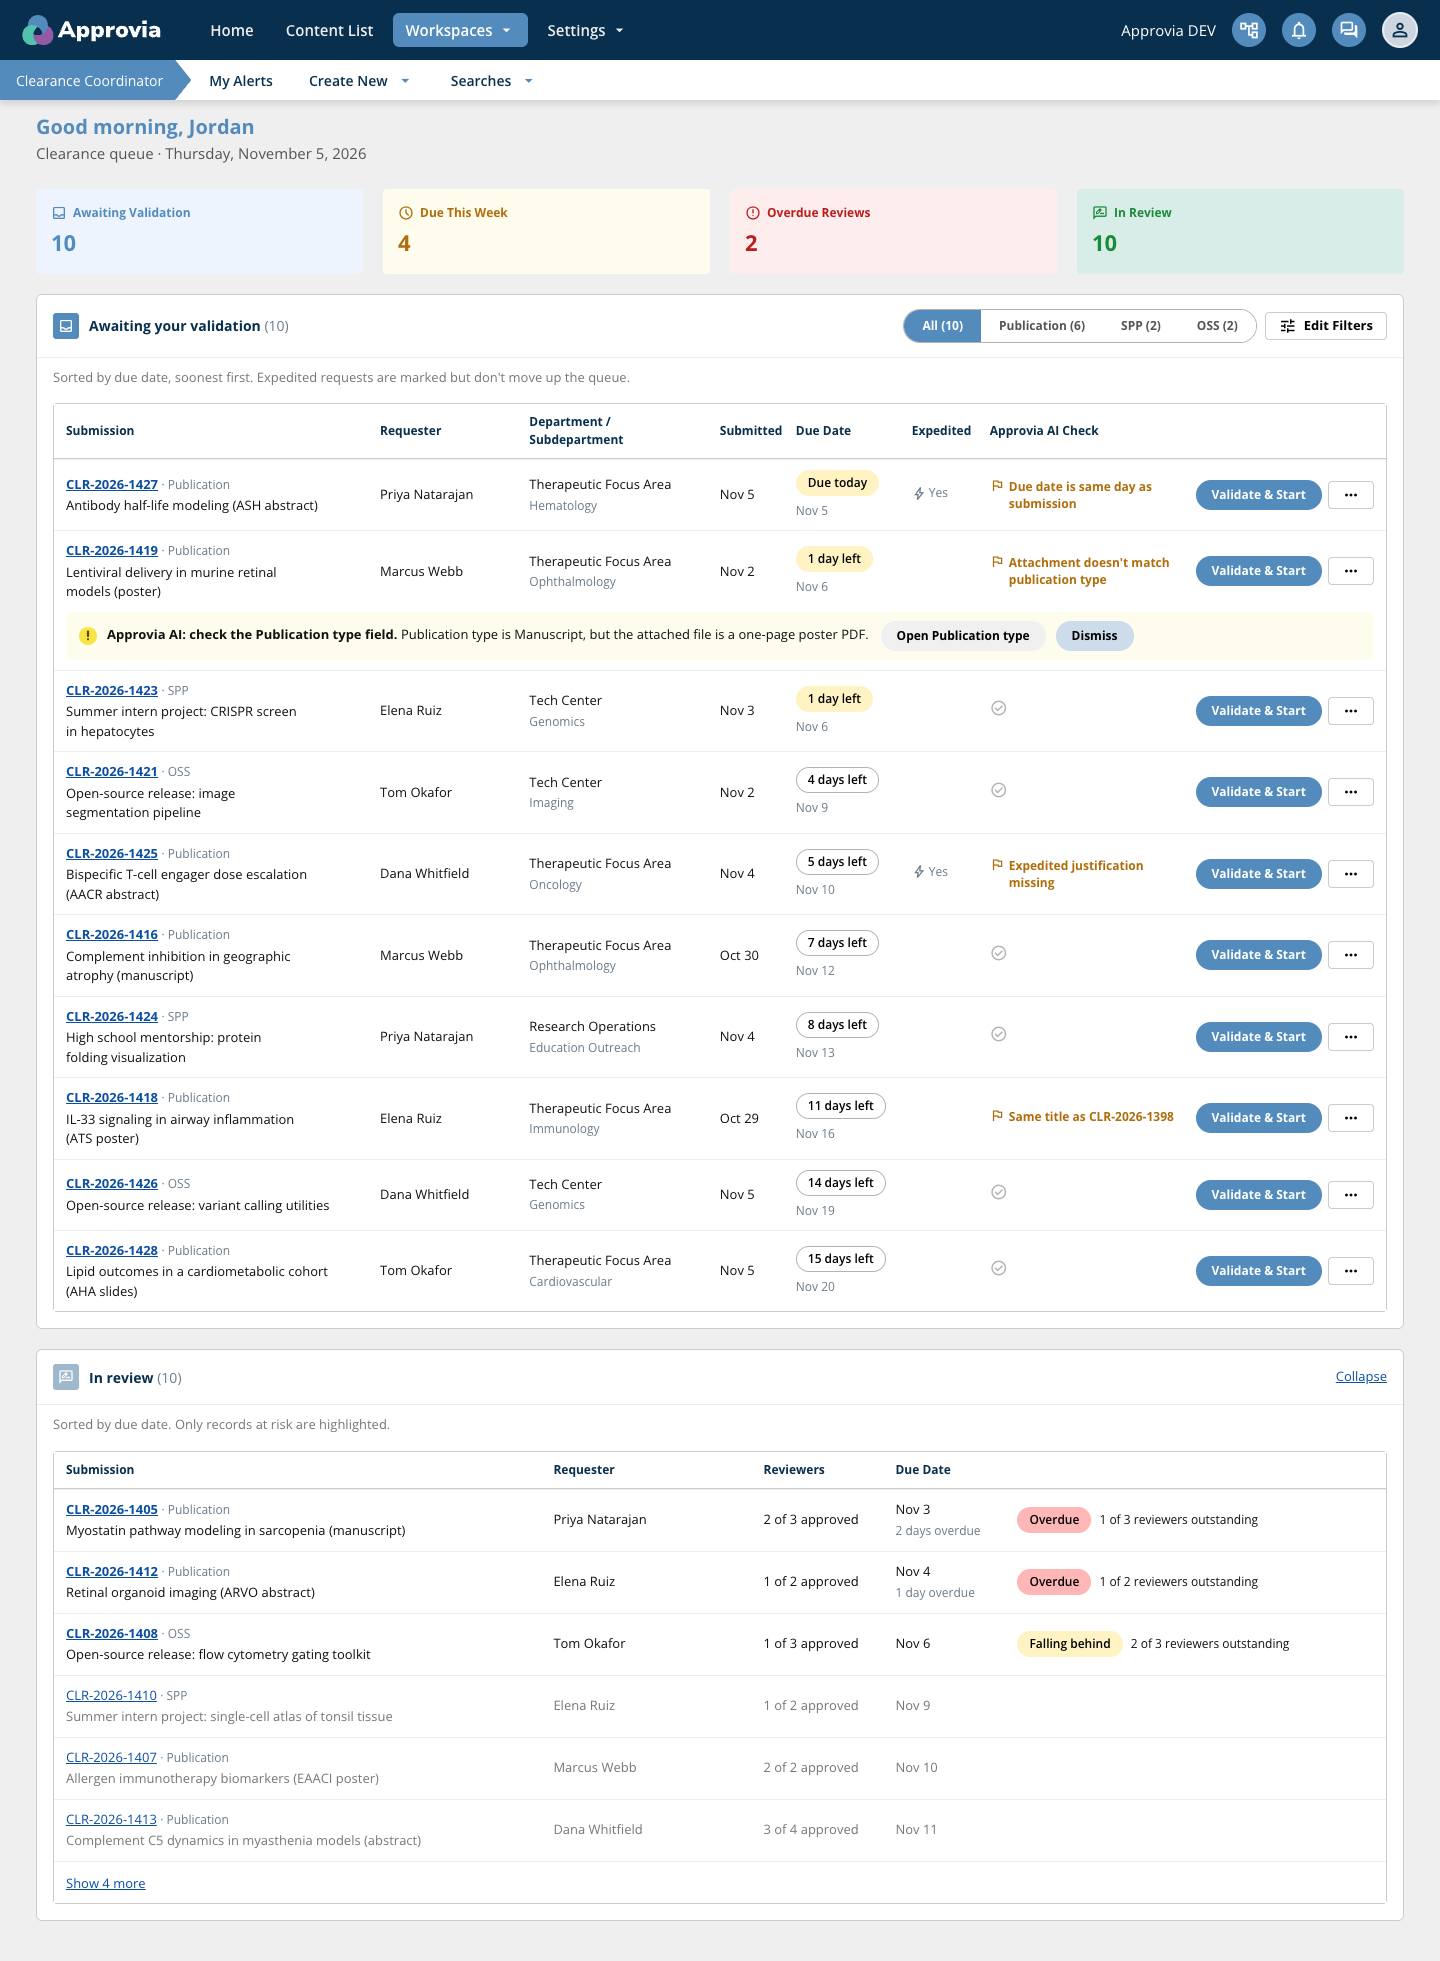
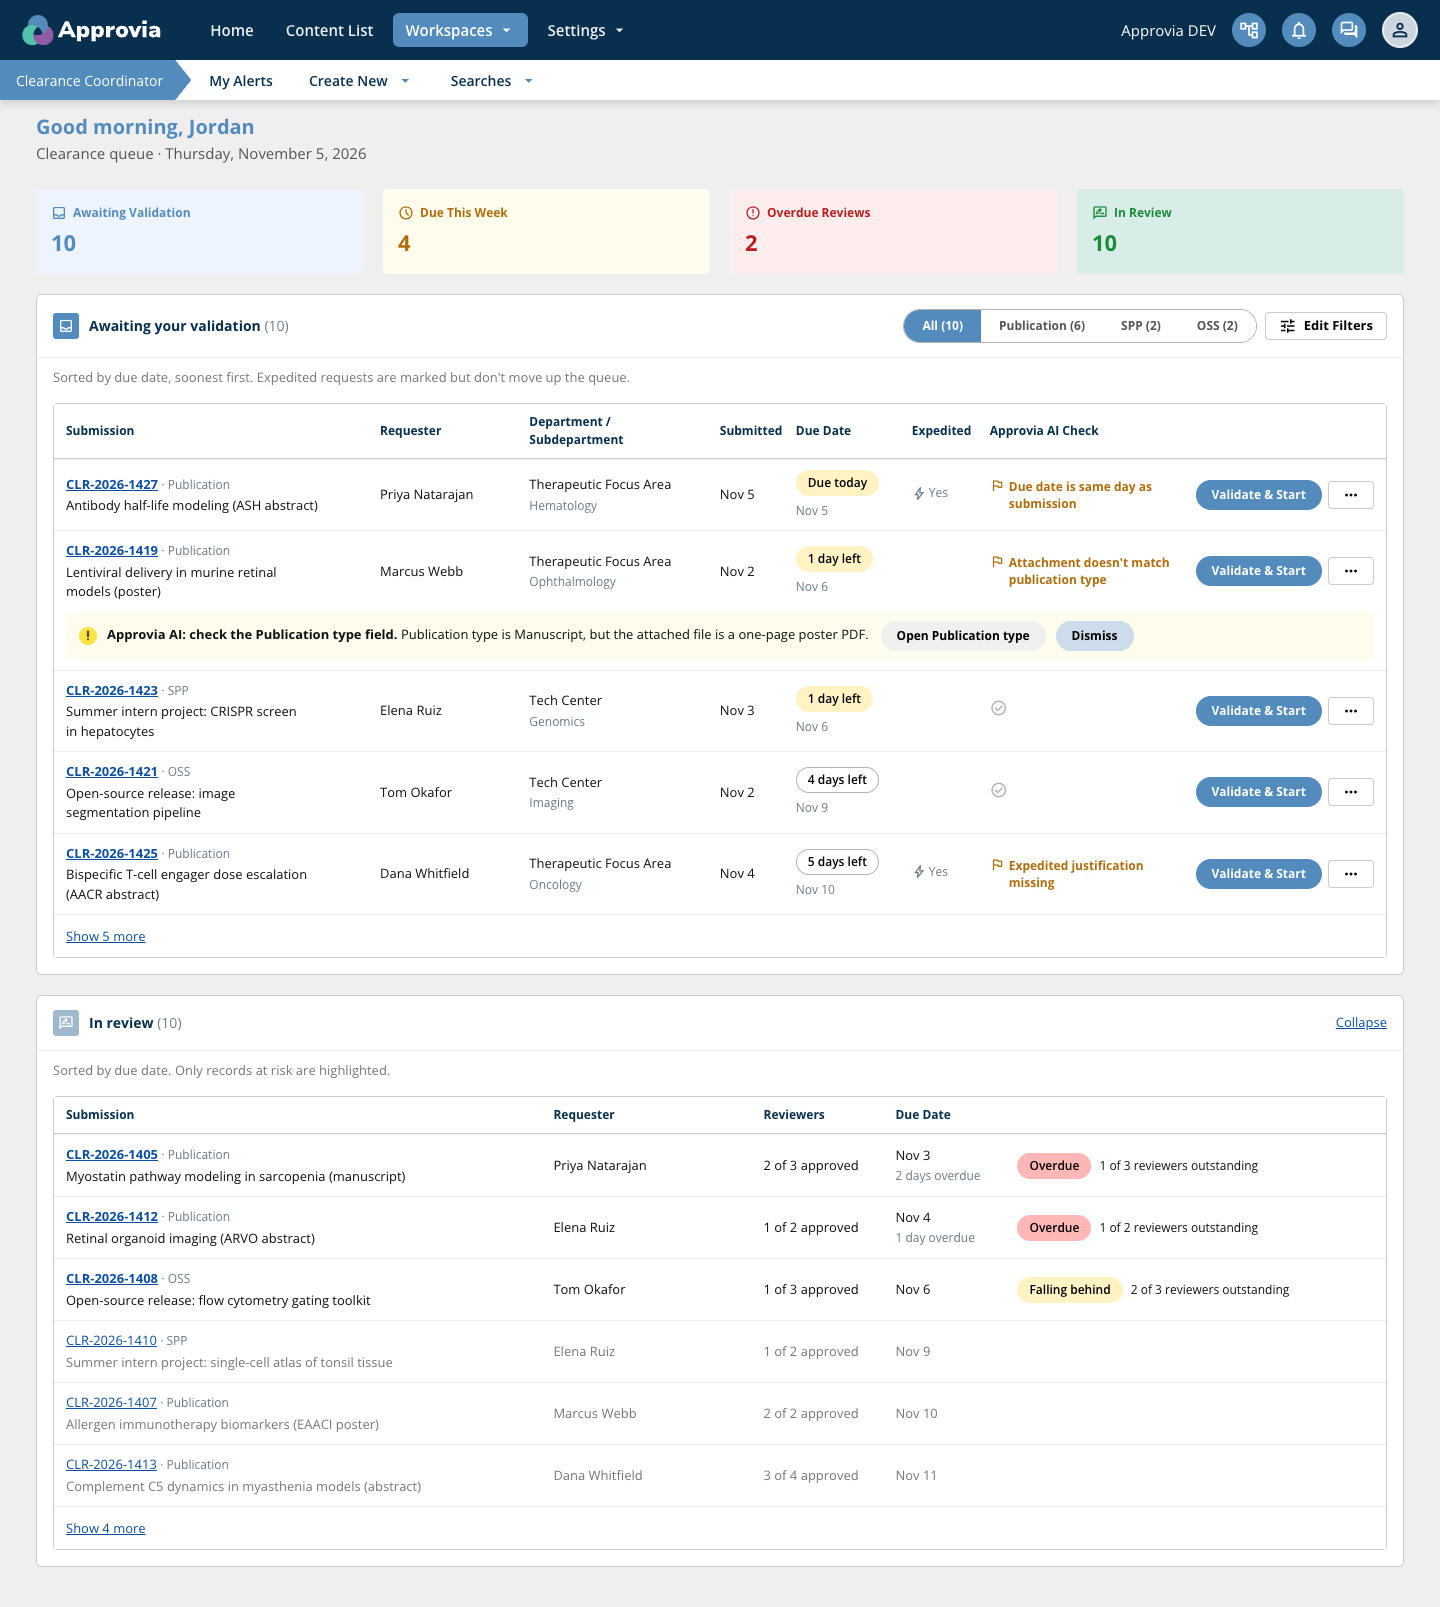
Coordinator dashboard: show the 5 soonest-due submissions, rest behind Show more

diff --git a/client/src/pages/mockups/regeneron/CoordinatorDashboard.jsx b/client/src/pages/mockups/regeneron/CoordinatorDashboard.jsx
@@ -133,6 +133,7 @@ export default function CoordinatorDashboard() {
   const [menu, setMenu] = useState(params.get('menu'));
   const [reviewOpen, setReviewOpen] = useState(true);
   const [showAll, setShowAll] = useState(false);
+  const [showAllQueue, setShowAllQueue] = useState(false);
 
   useEffect(() => {
     if (!menu) return undefined;
@@ -144,6 +145,8 @@ export default function CoordinatorDashboard() {
   const match = r => type === 'All' || r.type === type;
   const queue = useMemo(() => AWAITING.filter(match).sort(byDue), [type]);
   const review = useMemo(() => IN_REVIEW.filter(match).sort(byDue), [type]);
+  const QUEUE_SHOWN = 5; // keeps the dashboard on one screen; the rest sit behind "Show more"
+  const shownQueue = showAllQueue ? queue : queue.slice(0, QUEUE_SHOWN);
   const shownReview = showAll ? review : review.slice(0, 6);
 
   const weekEnd = new Date(TODAY); weekEnd.setDate(TODAY.getDate() + (7 - TODAY.getDay()) % 7);
@@ -181,7 +184,7 @@ export default function CoordinatorDashboard() {
           )}
         >
           <DataTable columns={QUEUE_COLS} headerTone="knowledge" style={{ overflow: 'visible' }}>
-            {queue.map(r => (
+            {shownQueue.map(r => (
               <QueueRow
                 key={r.id}
                 r={r}
@@ -191,6 +194,11 @@ export default function CoordinatorDashboard() {
                 onMenu={() => setMenu(m => (m === r.id ? null : r.id))}
               />
             ))}
+            {queue.length > QUEUE_SHOWN && (
+              <div className="rgm-more">
+                <button type="button" className="rgm-linkbtn" onClick={() => setShowAllQueue(v => !v)}>{showAllQueue ? 'Show fewer' : 'Show ' + (queue.length - QUEUE_SHOWN) + ' more'}</button>
+              </div>
+            )}
           </DataTable>
         </Panel>
 
